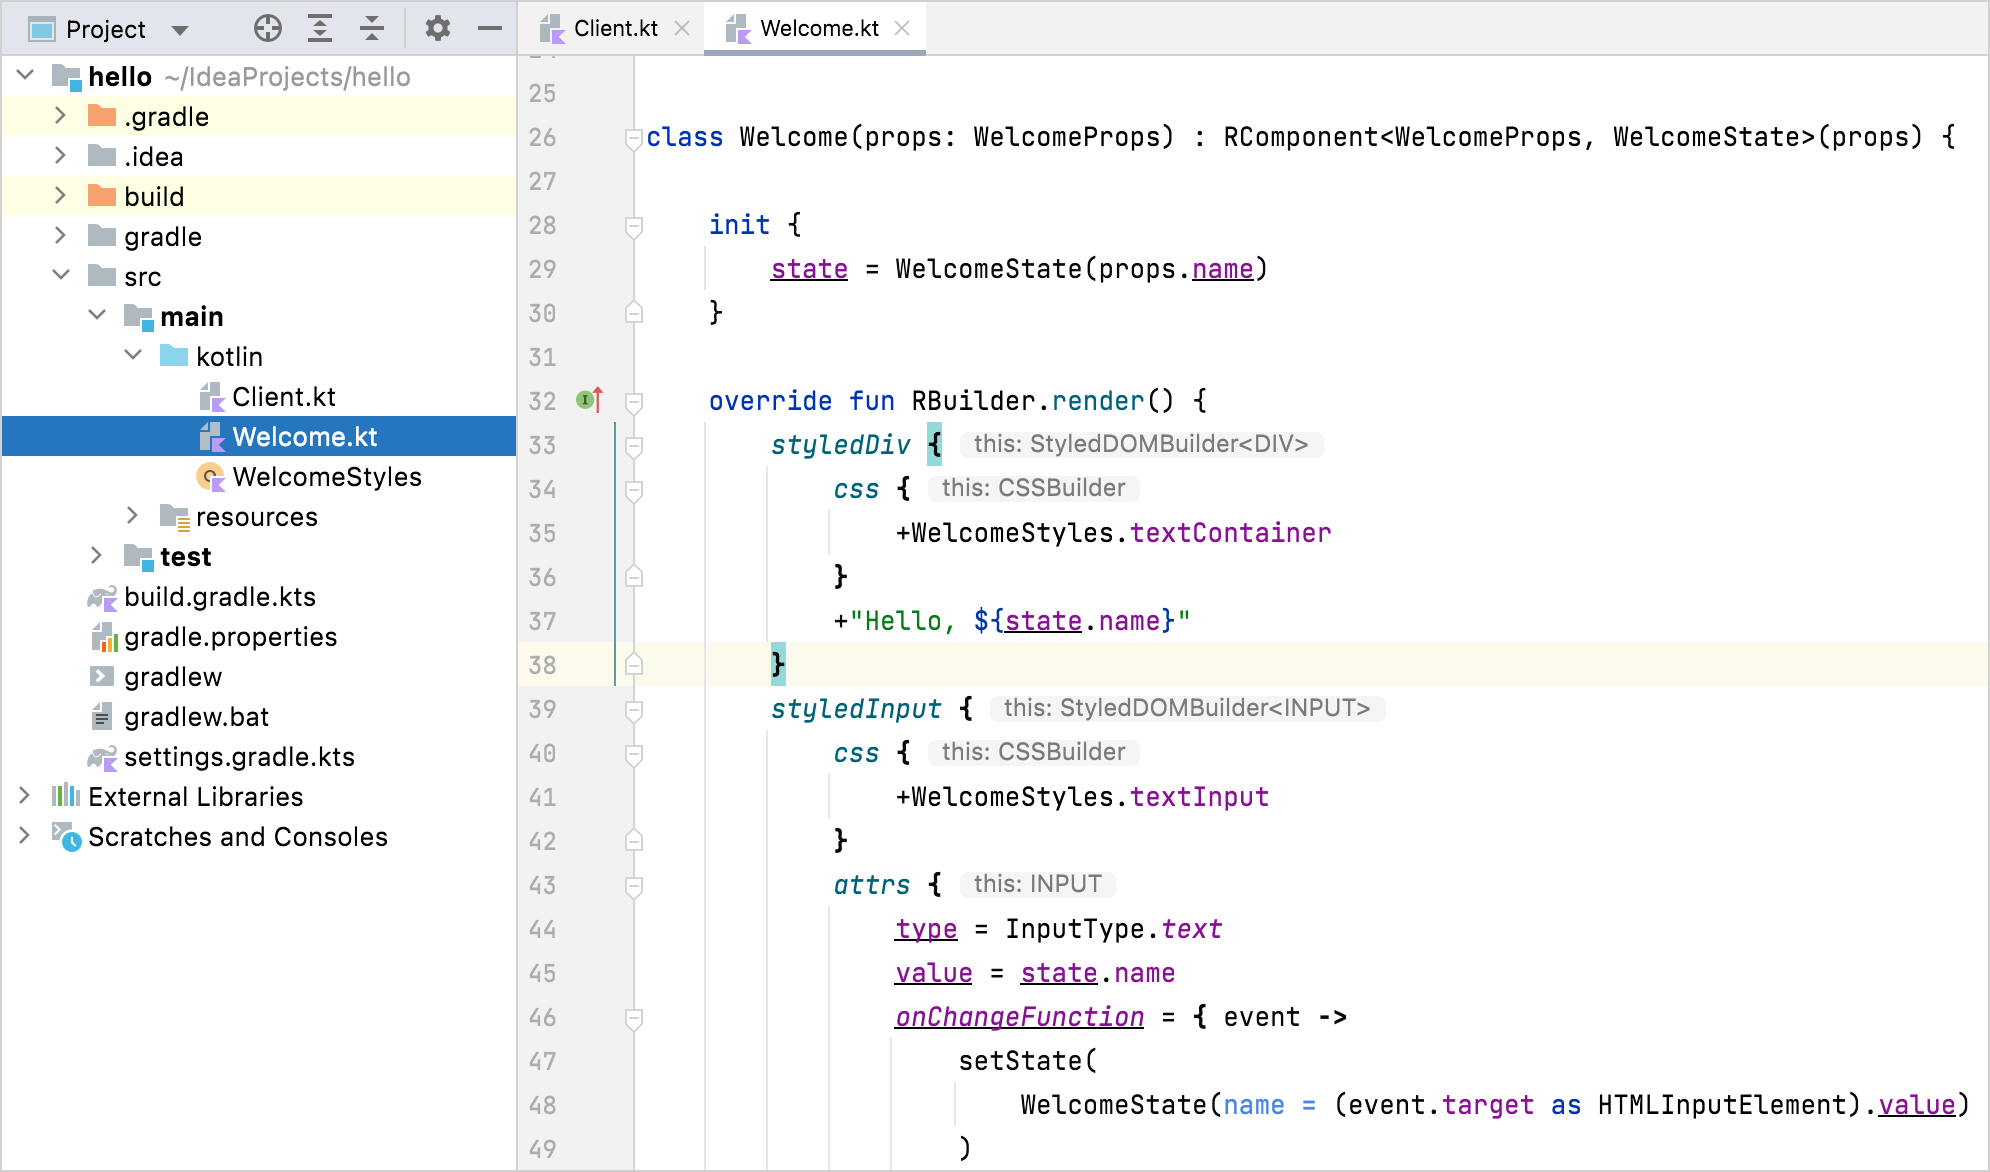
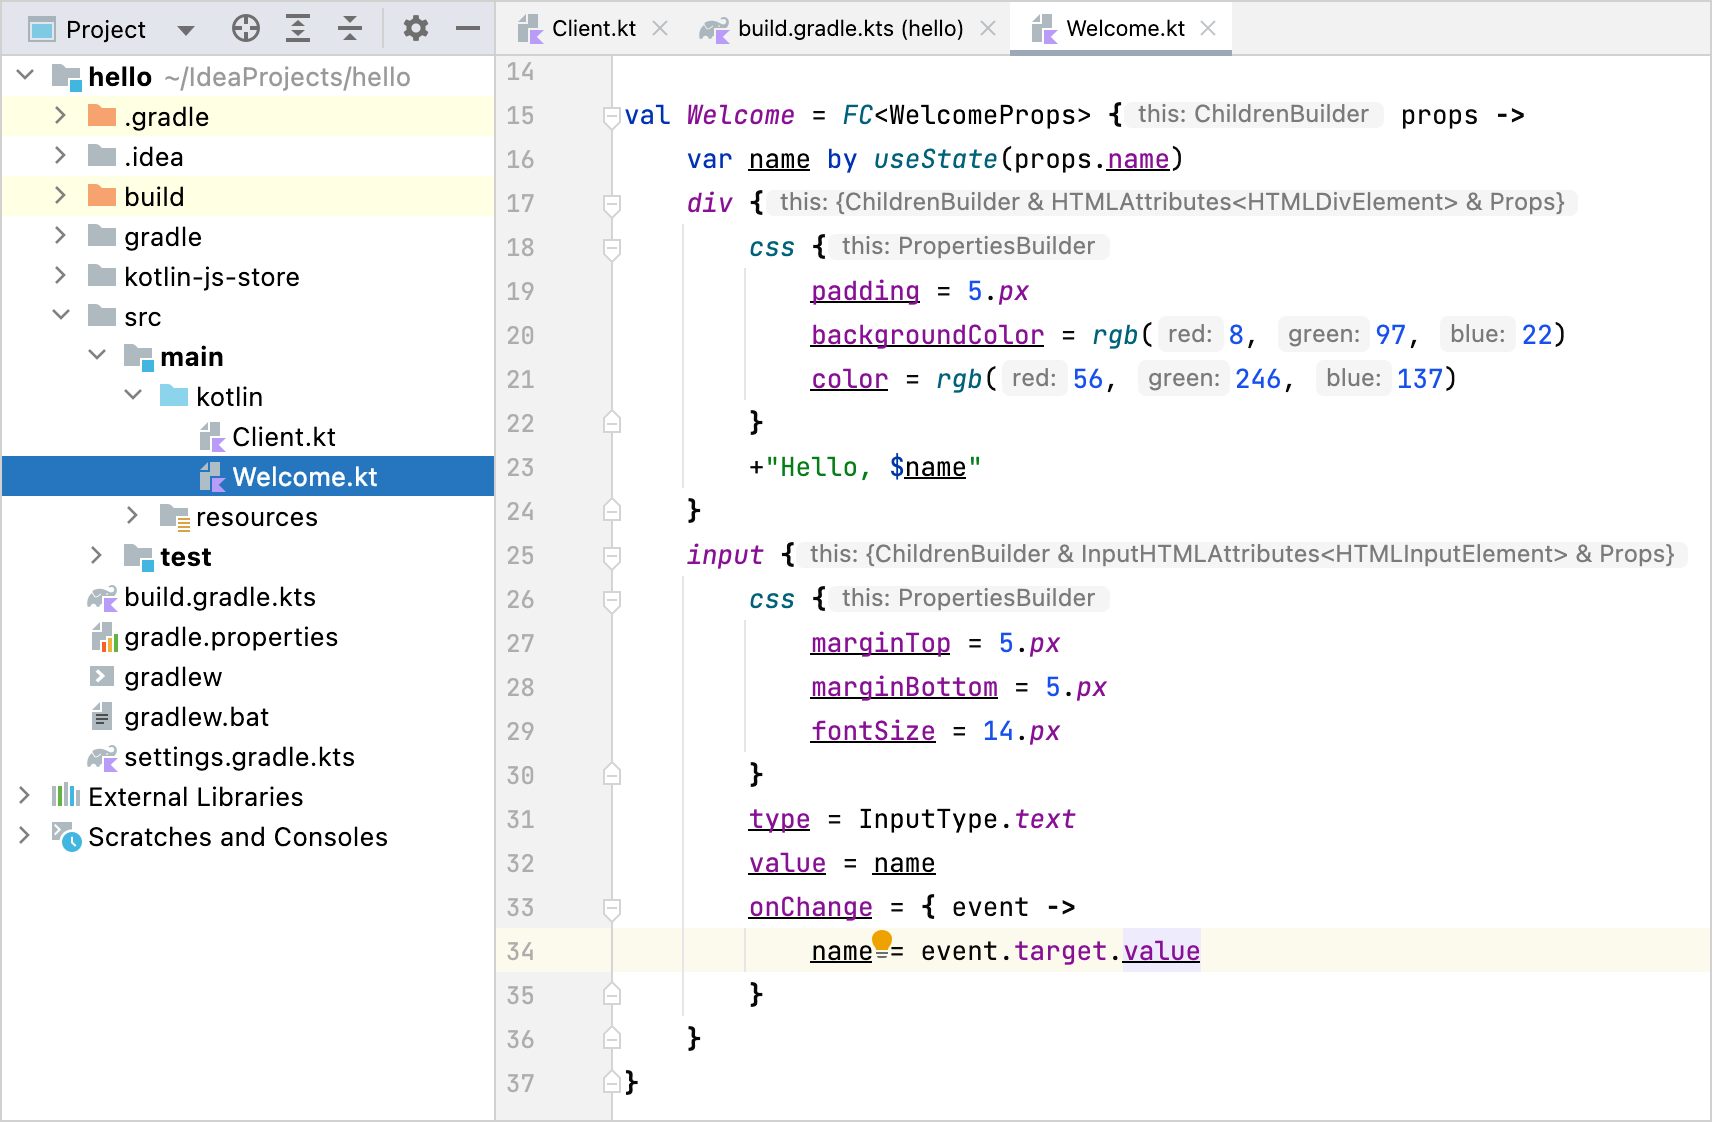
update: KT-51918 tutorial update

diff --git a/docs/topics/js/js-get-started.md b/docs/topics/js/js-get-started.md
@@ -52,20 +52,22 @@ Enter your name in the text box and accept the greetings from your application!
     
     ![Source code for frontend application](js-welcome-kt.png)
 
-2. Change the code of `styledDiv` to show your name backwards.  
+2. Change the code of `div` to show your name backwards.  
    
    * Use the standard library function `reversed()` to reverse your name.
    * Use a [string template](basic-types.md#string-templates) for your reversed 
-   name by adding a dollar sign `$` and enclosing it in curly braces – `${state.name.reversed()}`.
+   name by adding a dollar sign `$` and enclosing it in curly braces – `${name.reversed()}`.
 
    ```kotlin
-   styledDiv {
-       css {
-           +WelcomeStyles.textContainer
-       }
-       +"Hello ${state.name}!"
-       +" Your name backwards is ${state.name.reversed()}!"
-   }
+   div {
+        css {
+            padding = 5.px
+            backgroundColor = rgb(8, 97, 22)
+            color = rgb(56, 246, 137)
+        }
+        +"Hello, $name"
+        +" Your name backwards is ${name.reversed()}!"
+    }
    ```
 
 3. Save your changes to the file.
@@ -79,16 +81,18 @@ Enter your name in the text box and accept the greetings from your application!
 
 1. Open the file `welcome.kt` in `src/main/kotlin`.  
 
-2. Add a `div` container with a child image element `img` after the `styledInput` block.  
+2. Add a `div` container with a child image element `img` after the `input` block.  
    
-   > Make sure that you import the `react.dom.*` and `styled.*` packages.
+   > Follow IDE suggestions to import all the required elements of the `react.dom.html` package.
    >
    {type="note"}
    
    ```kotlin
    div {
-       img(src = "https://placekitten.com/408/287") {}
-   }
+        img {
+            src = "https://placekitten.com/408/287"
+        }
+    }
    ```
 
 3. Save your changes to the file.
@@ -102,21 +106,19 @@ Enter your name in the text box and accept the greetings from your application!
 
 1. Open the file `welcome.kt` in `src/main/kotlin`.  
 
-2. Add a `button` element with an `onClickFunction` event handler.  
+2. Add a `button` element with an `onClick` event handler.  
    
-   > Make sure that you import the package `kotlinx.html.js.*`.
+   > Make sure that you import the `react.dom.html.ReactHTML.button` element.
    >
    {type="note"}
 
    ```kotlin
    button {
-       attrs.onClickFunction = {
-           setState(
-               WelcomeState(name = "Some name")
-           )
-       }
-       +"Change name"
-   }   
+        onClick = {
+            name = "Some name"
+        }
+        +"Change name"
+    }   
    ```
 
 3. Save your changes to the file.
